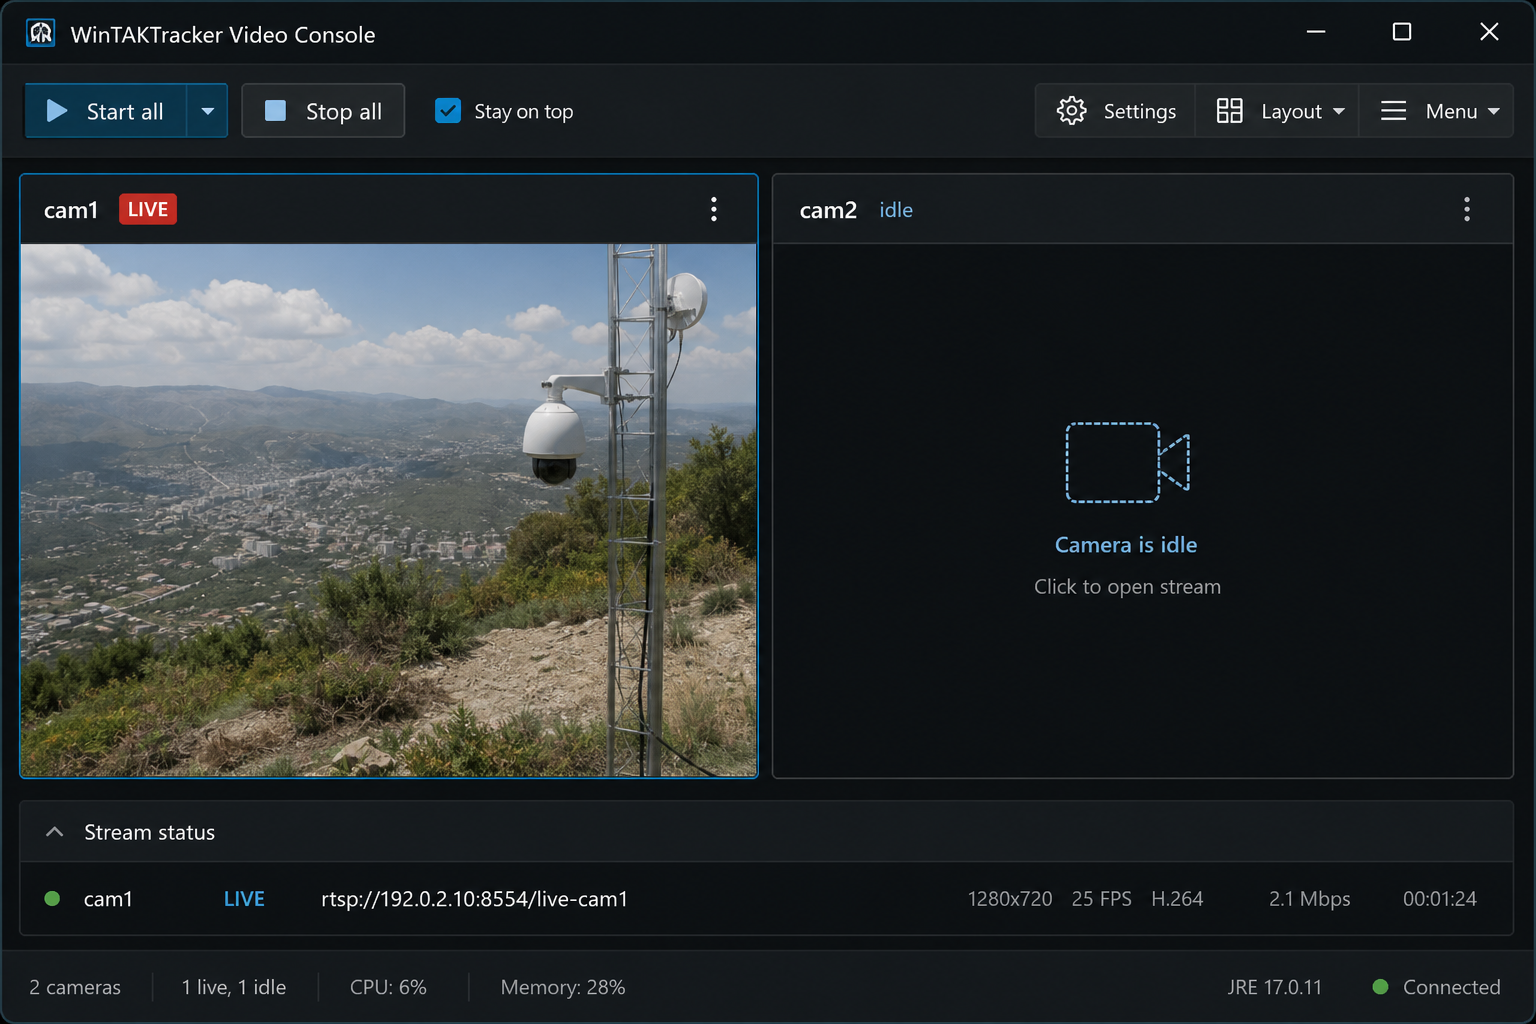
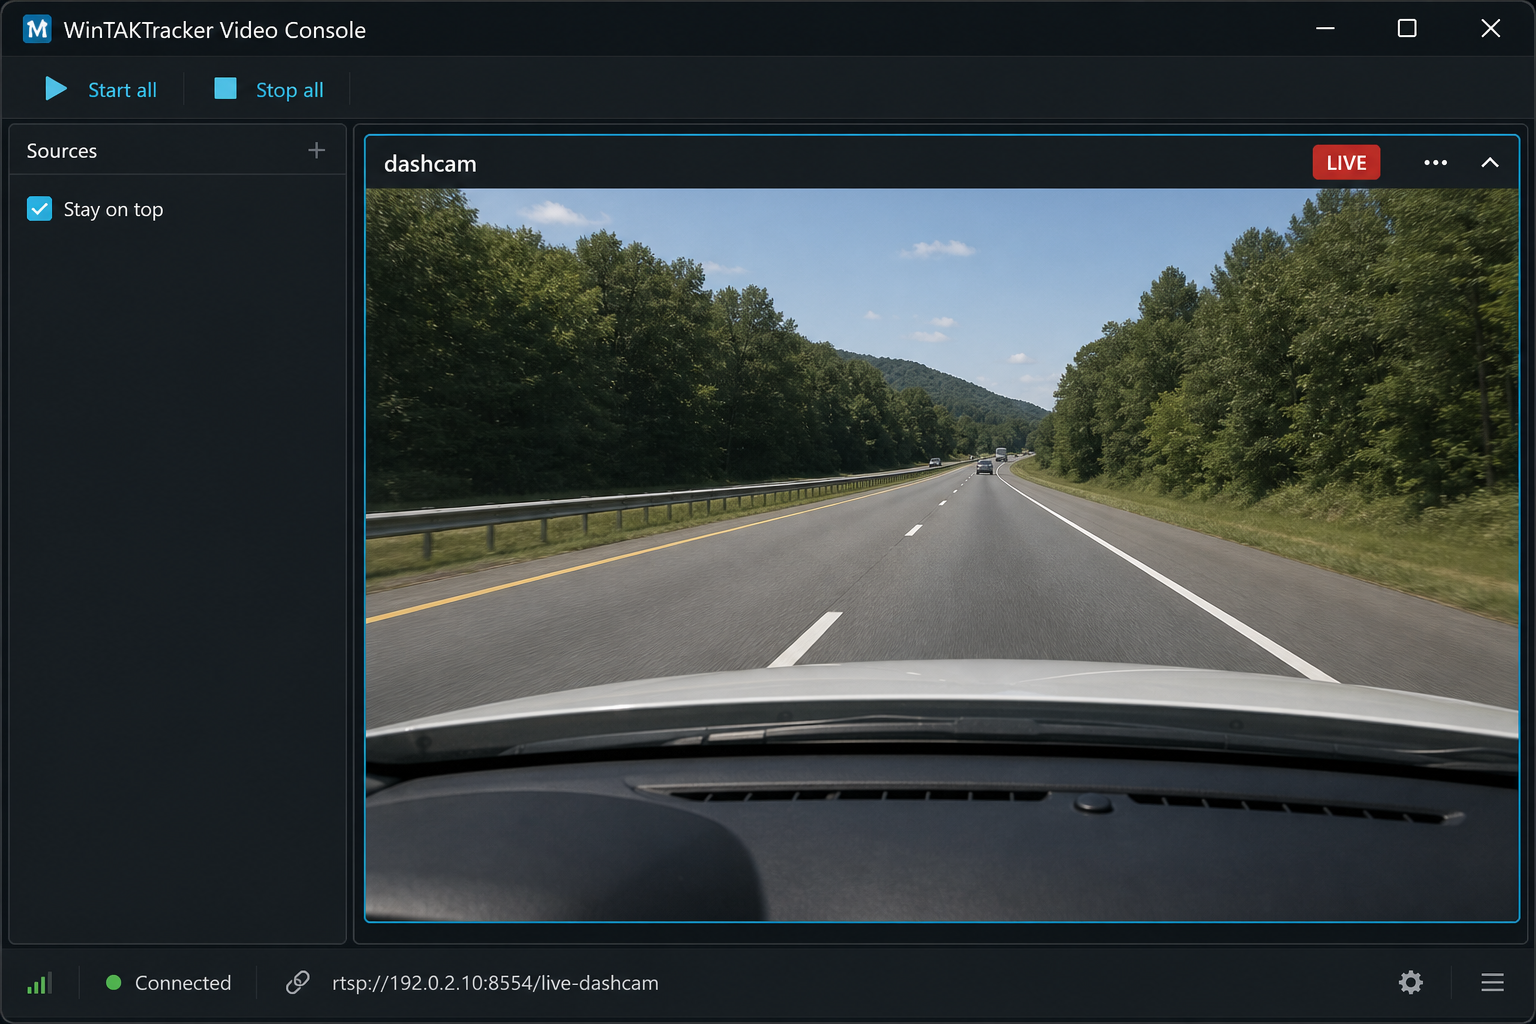
Publish video/FOV CoT only while LIVE and refresh dashcam README demos.
Stop clears __video and sensor markers quickly; README screenshots show a vehicle dashcam feed instead of a webcam selfie.

diff --git a/src/WinTAKTracker.Core/Services/Reporting/ReportingEngine.cs b/src/WinTAKTracker.Core/Services/Reporting/ReportingEngine.cs
@@ -37,6 +37,8 @@ public sealed class ReportingEngine : IDisposable
     private VideoAnnounceState _video = new();
     private DateTimeOffset _lastSensorMarker = DateTimeOffset.MinValue;
     private readonly List<VideoFeedAnnounce> _pendingCollapse = [];
+    /// <summary>One-shot zero-FOV self-SA decoration after streams stop (then omitted).</summary>
+    private readonly List<VideoFeedAnnounce> _pendingPliClear = [];
 
     public DateTimeOffset? LastPliSentUtc { get; private set; }
     public VideoAnnounceState VideoAnnounce
@@ -71,17 +73,15 @@ public sealed class ReportingEngine : IDisposable
                     }).ToList(),
                 };
 
-            // Collapse FOV cones for feeds that stop so peers clear the wedge.
-            if (_video.SendFovSensorMarker || next.SendFovSensorMarker)
+            // When a feed stops (or all video goes idle): expire sensor markers and clear self-SA FOV/video.
+            var nextIds = next.Active
+                ? next.Feeds.Select(f => f.FeedId).ToHashSet(StringComparer.OrdinalIgnoreCase)
+                : new HashSet<string>(StringComparer.OrdinalIgnoreCase);
+            foreach (var old in _video.Feeds)
             {
-                var nextIds = next.Active
-                    ? next.Feeds.Select(f => f.FeedId).ToHashSet(StringComparer.OrdinalIgnoreCase)
-                    : new HashSet<string>(StringComparer.OrdinalIgnoreCase);
-                foreach (var old in _video.Feeds)
-                {
-                    if (!nextIds.Contains(old.FeedId))
-                        _pendingCollapse.Add(CloneFeed(old));
-                }
+                if (nextIds.Contains(old.FeedId)) continue;
+                _pendingCollapse.Add(CloneFeed(old));
+                _pendingPliClear.Add(CloneFeed(old));
             }
 
             _video = next;
@@ -253,7 +253,7 @@ public sealed class ReportingEngine : IDisposable
             ? CotEventBuilder.FromActiveIdentity(config, active, battery: battery)
             : CotEventBuilder.FromConfig(config, battery: battery);
         var stale = rate.GetStale(TimeSpan.FromSeconds(Math.Max(config.Reporting.ReliableMinSeconds, 30)));
-        var cot = BuildCot(fix, identity, stale, config, video);
+        var cot = BuildCot(fix, identity, stale, config, video, pliClear: null);
 
         try
         {
@@ -305,9 +305,23 @@ public sealed class ReportingEngine : IDisposable
             _pendingCollapse.Clear();
         }
 
+        List<VideoFeedAnnounce> pliClear;
+        lock (_gate)
+        {
+            pliClear = _pendingPliClear.ToList();
+        }
+
         var sensorDue = video.Active && video.SendFovSensorMarker &&
                         DateTimeOffset.UtcNow - _lastSensorMarker >=
-                        TimeSpan.FromSeconds(Math.Clamp(config.Video.FovRefreshSeconds, 3, 30));
+                        TimeSpan.FromSeconds(Math.Clamp(config.Video.FovRefreshSeconds, 3, 15));
+
+        // Force an ASAP PLI when clearing video so self-SA drops __video/FOV immediately.
+        var clearingVideo = !video.Active && pliClear.Count > 0;
+        if (clearingVideo)
+        {
+            reliableDue = true;
+            unreliableDue = true;
+        }
 
         if (!reliableDue && !unreliableDue && !sensorDue && collapse.Count == 0) return;
 
@@ -317,7 +331,7 @@ public sealed class ReportingEngine : IDisposable
             ? CotEventBuilder.FromActiveIdentity(config, active, battery: battery)
             : CotEventBuilder.FromConfig(config, battery: battery);
         var stale = rate.GetStale(rate.GetInterval(ReportingPath.Reliable, speed));
-        var cot = BuildCot(fix, identity, stale, config, video);
+        var cot = BuildCot(fix, identity, stale, config, video, pliClear);
 
         if (reliableDue && _tak.AnyConnected)
         {
@@ -348,9 +362,11 @@ public sealed class ReportingEngine : IDisposable
             var deviceUid = config.DeviceUid ?? ("WIN-" + Environment.MachineName.Replace(" ", ""));
             if (sensorDue)
             {
+                var sensorStale = CotVideoBuilder.LiveSensorStale(config.Video.FovRefreshSeconds);
                 foreach (var feed in video.Feeds)
                 {
-                    var marker = CotVideoBuilder.BuildSensorMarkerEvent(feed, fix, deviceUid, TimeSpan.FromSeconds(60));
+                    // Only while LIVE — video.Feeds is already live-only from tray announce.
+                    var marker = CotVideoBuilder.BuildSensorMarkerEvent(feed, fix, deviceUid, sensorStale);
                     await SendSensorCotAsync(marker, config).ConfigureAwait(false);
                 }
 
@@ -359,13 +375,18 @@ public sealed class ReportingEngine : IDisposable
 
             foreach (var feed in collapse)
             {
-                var marker = CotVideoBuilder.BuildCollapsedSensorEvent(feed, fix, deviceUid);
-                await SendSensorCotAsync(marker, config).ConfigureAwait(false);
+                // Collapse (no stream URL) then expire so ATAK drops the marker quickly.
+                await SendSensorCotAsync(
+                    CotVideoBuilder.BuildCollapsedSensorEvent(feed, fix, deviceUid), config).ConfigureAwait(false);
+                await SendSensorCotAsync(
+                    CotVideoBuilder.BuildExpiredSensorEvent(feed, fix, deviceUid), config).ConfigureAwait(false);
             }
         }
 
         lock (_gate)
         {
+            if (clearingVideo || (reliableDue || unreliableDue))
+                _pendingPliClear.Clear();
             _prevAlt = fix.AltitudeMeters;
             _prevSpeedMph = speed;
             _asap = false;
@@ -399,11 +420,18 @@ public sealed class ReportingEngine : IDisposable
         CotIdentity identity,
         TimeSpan stale,
         AppConfig config,
-        VideoAnnounceState video)
+        VideoAnnounceState video,
+        IReadOnlyList<VideoFeedAnnounce>? pliClear)
     {
         var cot = CotEventBuilder.Build(fix, identity, stale, config.Gps.CourseOffsetDegrees);
-        if (!video.Active || video.Feeds.Count == 0) return cot;
-        return CotEventBuilder.MergeDetailChildren(cot, CotVideoBuilder.BuildSelfDetailFragments(video));
+        if (video.Active && video.Feeds.Count > 0)
+            return CotEventBuilder.MergeDetailChildren(cot, CotVideoBuilder.BuildSelfDetailFragments(video));
+
+        // After stop: one PLI with zero FOV (no __video) so peers clear the cone immediately.
+        if (pliClear is { Count: > 0 })
+            return CotEventBuilder.MergeDetailChildren(cot, CotVideoBuilder.BuildSelfClearFragments(pliClear));
+
+        return cot;
     }
 
     private bool ShouldSendMesh(AppConfig config)

diff --git a/src/WinTAKTracker.Core/Services/Reporting/CotVideoBuilder.cs b/src/WinTAKTracker.Core/Services/Reporting/CotVideoBuilder.cs
@@ -30,6 +30,7 @@ public sealed class VideoFeedAnnounce
 /// <summary>ICU-inspired <c>__video</c> / <c>sensor</c> CoT fragments for ATAK / CloudTAK / TAK Aware.</summary>
 public static class CotVideoBuilder
 {
+    /// <summary>Self-SA decoration only while feeds are LIVE with a playable URL.</summary>
     public static IEnumerable<XElement> BuildSelfDetailFragments(VideoAnnounceState state)
     {
         if (!state.Active) yield break;
@@ -43,18 +44,45 @@ public static class CotVideoBuilder
         }
     }
 
+    /// <summary>
+    /// One-shot self-SA clear: zero FOV / no <c>__video</c> so peers drop the cone without keeping a play URL.
+    /// </summary>
+    public static IEnumerable<XElement> BuildSelfClearFragments(IEnumerable<VideoFeedAnnounce> feeds)
+    {
+        foreach (var feed in feeds)
+        {
+            yield return BuildSensorElement(new VideoFeedAnnounce
+            {
+                AzimuthDegrees = feed.AzimuthDegrees,
+                ElevationDegrees = feed.ElevationDegrees,
+                HfovDegrees = 0,
+                VfovDegrees = 0,
+                RangeMeters = 0,
+            });
+            yield return BuildDeviceElement(feed);
+        }
+    }
+
     public static string BuildSensorMarkerEvent(
         VideoFeedAnnounce feed,
         GpsFix fix,
         string deviceUid,
-        TimeSpan stale)
+        TimeSpan stale,
+        bool includeVideo = true)
     {
         var now = DateTimeOffset.UtcNow;
-        var uid = string.IsNullOrWhiteSpace(feed.VideoUid)
-            ? $"{deviceUid}-SENSOR-{Sanitize(feed.Tag)}"
-            : feed.VideoUid.Replace("-VIDEO", "-SENSOR", StringComparison.OrdinalIgnoreCase);
-        if (!uid.Contains("SENSOR", StringComparison.OrdinalIgnoreCase))
-            uid = $"{uid}-SENSOR";
+        var uid = SensorUid(feed, deviceUid);
+        var detail = new XElement("detail",
+            new XElement("contact", new XAttribute("callsign", feed.Alias)));
+        if (includeVideo && !string.IsNullOrWhiteSpace(feed.StreamUrl))
+        {
+            detail.Add(BuildVideoElement(feed));
+            detail.Add(BuildConnectionEntry(feed));
+        }
+
+        detail.Add(BuildDeviceElement(feed));
+        detail.Add(BuildSensorElement(feed));
+
         var evt = new XElement("event",
             new XAttribute("version", "2.0"),
             new XAttribute("uid", uid),
@@ -69,30 +97,64 @@ public static class CotVideoBuilder
                 new XAttribute("hae", CotEventBuilder.F(fix.AltitudeMeters ?? 0)),
                 new XAttribute("ce", "9999999"),
                 new XAttribute("le", "9999999")),
-            new XElement("detail",
-                new XElement("contact", new XAttribute("callsign", feed.Alias)),
-                BuildVideoElement(feed),
-                BuildConnectionEntry(feed),
-                BuildDeviceElement(feed),
-                BuildSensorElement(feed)));
+            detail);
         return CotEventBuilder.Finalize(evt);
     }
 
+    /// <summary>Collapse FOV and drop video URL; short stale so the marker leaves the COP quickly.</summary>
     public static string BuildCollapsedSensorEvent(VideoFeedAnnounce feed, GpsFix fix, string deviceUid)
     {
         var collapsed = new VideoFeedAnnounce
         {
             FeedId = feed.FeedId,
             Tag = feed.Tag,
-            StreamUrl = feed.StreamUrl,
+            StreamUrl = "",
             Alias = feed.Alias,
             VideoUid = feed.VideoUid,
             HfovDegrees = 0,
+            VfovDegrees = 0,
             RangeMeters = 0,
             AzimuthDegrees = feed.AzimuthDegrees,
             ElevationDegrees = feed.ElevationDegrees,
         };
-        return BuildSensorMarkerEvent(collapsed, fix, deviceUid, TimeSpan.FromSeconds(15));
+        return BuildSensorMarkerEvent(collapsed, fix, deviceUid, TimeSpan.FromSeconds(3), includeVideo: false);
+    }
+
+    /// <summary>Immediate expire (stale already in the past) so ATAK drops the sensor marker.</summary>
+    public static string BuildExpiredSensorEvent(VideoFeedAnnounce feed, GpsFix fix, string deviceUid)
+    {
+        var now = DateTimeOffset.UtcNow;
+        var uid = SensorUid(feed, deviceUid);
+        var evt = new XElement("event",
+            new XAttribute("version", "2.0"),
+            new XAttribute("uid", uid),
+            new XAttribute("type", "b-m-p-s-p-loc"),
+            new XAttribute("how", "h-e"),
+            new XAttribute("time", CotEventBuilder.FormatTakTime(now)),
+            new XAttribute("start", CotEventBuilder.FormatTakTime(now)),
+            new XAttribute("stale", CotEventBuilder.FormatTakTime(now.AddSeconds(-1))),
+            new XElement("point",
+                new XAttribute("lat", CotEventBuilder.F(fix.Latitude)),
+                new XAttribute("lon", CotEventBuilder.F(fix.Longitude)),
+                new XAttribute("hae", CotEventBuilder.F(fix.AltitudeMeters ?? 0)),
+                new XAttribute("ce", "9999999"),
+                new XAttribute("le", "9999999")),
+            new XElement("detail",
+                new XElement("contact", new XAttribute("callsign", feed.Alias)),
+                BuildSensorElement(new VideoFeedAnnounce
+                {
+                    AzimuthDegrees = feed.AzimuthDegrees,
+                    HfovDegrees = 0,
+                    RangeMeters = 0,
+                })));
+        return CotEventBuilder.Finalize(evt);
+    }
+
+    public static TimeSpan LiveSensorStale(int fovRefreshSeconds)
+    {
+        // Keep marker only slightly longer than refresh so stop clears quickly.
+        var refresh = Math.Clamp(fovRefreshSeconds, 3, 15);
+        return TimeSpan.FromSeconds(refresh * 2);
     }
 
     public static double ResolveAzimuth(AppConfig config, VideoFeedSettings feed, double? courseDegrees)
@@ -111,6 +173,16 @@ public static class CotVideoBuilder
         if (string.IsNullOrWhiteSpace(t) || t.Equals("cam1", StringComparison.OrdinalIgnoreCase))
             return callsign;
         return $"{callsign}-{t}";
+    }
+
+    private static string SensorUid(VideoFeedAnnounce feed, string deviceUid)
+    {
+        var uid = string.IsNullOrWhiteSpace(feed.VideoUid)
+            ? $"{deviceUid}-SENSOR-{Sanitize(feed.Tag)}"
+            : feed.VideoUid.Replace("-VIDEO", "-SENSOR", StringComparison.OrdinalIgnoreCase);
+        if (!uid.Contains("SENSOR", StringComparison.OrdinalIgnoreCase))
+            uid = $"{uid}-SENSOR";
+        return uid;
     }
 
     private static XElement BuildVideoElement(VideoFeedAnnounce feed) =>

diff --git a/src/WinTAKTracker/Views/SettingsWindow.xaml.cs b/src/WinTAKTracker/Views/SettingsWindow.xaml.cs
@@ -1615,11 +1615,12 @@ public partial class SettingsWindow : Window
         panel.Children.Add(SectionHeader("FOV / aim"));
         panel.Children.Add(Blurb(
             "Per-camera HFOV, range, and azimuth offset are edited on each feed card above. " +
-            "Course offset is shared with GPS. Click a wedge/legend to select a feed."));
+            "Course offset is shared with GPS. Click a wedge/legend to select a feed. " +
+            "TAK only receives __video / FOV while a feed is LIVE; stopping clears markers quickly."));
         var courseOffset = new TextBox { Text = _host.Config.Gps.CourseOffsetDegrees.ToString("0.###"), IsEnabled = edit };
         var sendFov = new CheckBox
         {
-            Content = "Send FOV sensor marker (b-m-p-s-p-loc)",
+            Content = "Send FOV sensor marker while LIVE (b-m-p-s-p-loc)",
             IsChecked = v.SendFovSensorMarker,
             IsEnabled = edit,
         };

diff --git a/README.md b/README.md
@@ -82,18 +82,20 @@ Details: [docs/windows-service.md](docs/windows-service.md#identity-rules).
 
 ## Video streaming (ICU-inspired)
 
-Laptop or USB cameras can stream live video and advertise it over TAK CoT so **ATAK**, **CloudTAK**, and **TAK Aware** can open the feed (ICU-style discovery). Setup stays in **Settings → Video**; ops use a separate **Video Console** window.
+Stream a **vehicle dashcam** (or any USB/laptop camera) and advertise it over TAK CoT so **ATAK**, **CloudTAK**, and **TAK Aware** can open the feed (ICU-style discovery). Setup stays in **Settings → Video**; ops use a separate **Video Console** window. Peers see your track plus an FOV cone aimed with course offset—useful when the laptop rides in a vehicle and the camera looks down the road.
 
-![Video settings with FOV aim viewer (illustrative)](docs/images/video-icu-settings.png)
+![Video settings with FOV aim for a dashcam feed (illustrative)](docs/images/video-icu-settings.png)
 
-![Video Console with previews and Start/Stop (illustrative)](docs/images/video-console.png)
+![Video Console LIVE with vehicle dashcam preview (illustrative)](docs/images/video-console.png)
+
+*Illustrative dashcam demo — not an operational capture. Use fictional hosts such as `192.0.2.10` in docs and screenshots.*
 
 ### How it works
 
-1. **Configure** under Settings → Video: pick a camera, short tag, transport (on-device RTSP, push to a restreamer such as MediaMTX, or UDP MPEG-TS multicast), encode bitrate, FOV range/HFOV, and optional recording folder.
-2. **Aim** with the FOV viewer (wedges relative to GPS course + shared course offset). The same course offset appears under GPS settings.
+1. **Configure** under Settings → Video: pick the dashcam (or USB camera), short tag (e.g. `dashcam`), transport (on-device RTSP, push to a restreamer such as MediaMTX, or UDP MPEG-TS multicast), encode bitrate, FOV range/HFOV, and optional recording folder.
+2. **Aim** with the FOV viewer (wedges relative to GPS course + shared course offset) so the cone matches the camera’s view down-track. The same course offset appears under GPS settings.
 3. **Open Video Console** (tray menu, or auto-open on startup when enabled). Use Stay on top, Start/Stop per feed or Start all. Closing the Console does not stop streams by default.
-4. While LIVE, WinTAKTracker merges `<__video>` + `ConnectionEntry` + `<sensor>` into outbound self-SA (and optional FOV sensor markers) so peers can play the URL.
+4. While LIVE, WinTAKTracker merges `<__video>` + `ConnectionEntry` + `<sensor>` into outbound self-SA (and optional FOV sensor markers) so peers can play the URL. When you Stop, video/FOV CoT clears quickly.
 5. Optional **recording** writes 5‑minute segments as three files each: `.mp4`, `.sha256`, and `.kml` (GPS samples every 5s).
 
 **Requires FFmpeg** (external encoder). Setup releases bundle `ffmpeg.exe` when CI can fetch it; otherwise use Settings → Video (**Download FFmpeg…** / **winget install…**), PATH, or a path beside the EXE. Video is **session-bound** (interactive tray); it does not run from the Windows Service after logoff. The tray icon shows a small camera badge when video is configured, and a LIVE accent while streaming.
